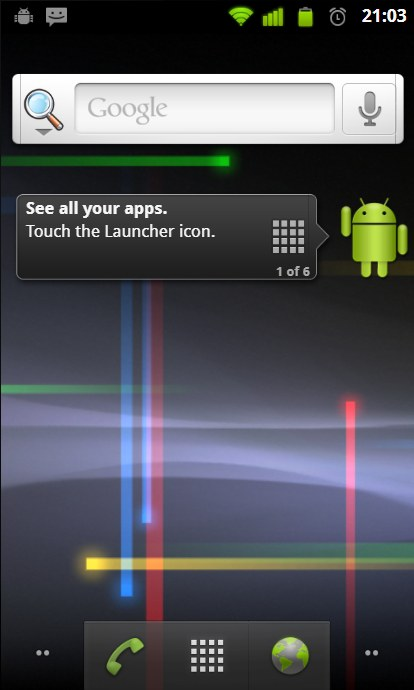
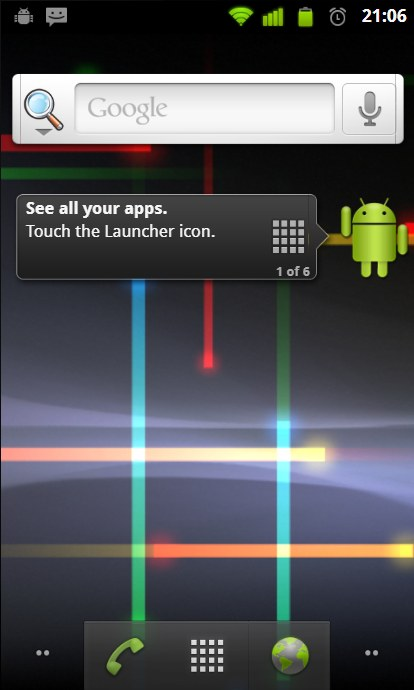
Recapture the 2.3.6 landing thumbnail with two Nexus tap bursts crossing the light waves

diff --git a/versions/catalog.js b/versions/catalog.js
@@ -9,7 +9,7 @@ window.ANDROID_VERSIONS = [
     description: 'Touch keys under the glass, the SlidingTab lock screen, option panels behind the Menu key, green status icons and the zombie Gingerbread easter egg.',
     url: 'versions/2.3.6/',
     status: 'available',
-    art: {shot: 'landing-home.jpg?v=3', phone: 'nexuss'}
+    art: {shot: 'landing-home.jpg?v=4', phone: 'nexuss'}
   },
   {
     id: '4.0.4',

diff --git a/index.html b/index.html
@@ -9,7 +9,7 @@
   <link rel="icon" type="image/svg+xml" href="favicon.svg">
   <link rel="stylesheet" href="styles.css?v=14">
   <script defer src="i18n.js?v=59"></script>
-  <script defer src="versions/catalog.js?v=10"></script>
+  <script defer src="versions/catalog.js?v=11"></script>
   <script defer src="app.js?v=10"></script>
 </head>
 <body>

diff --git a/docs/visual-audit-2.3.md b/docs/visual-audit-2.3.md
@@ -708,6 +708,6 @@ The Nexus wallpaper used the AOSP `packages/wallpapers/Basic` resources: the gre
 
 The crespo `default_wallpaper.jpg` (green grass) is only the static ImageWallpaper fallback. `config.xml` makes the live Nexus wallpaper the default.
 
-`versions/2.3.6/assets/lw-pyramid_background.png` and `lw-nexus_thumb.png` are now the crespo files (cache key `?v=2`). `live-wallpapers.js` follows the crespo `initPulse` / `addTap` scaling. The landing thumbnail (`landing-home.jpg?v=3`) was recaptured. 4.0.4 and 4.3 keep their own wallpapers.
+`versions/2.3.6/assets/lw-pyramid_background.png` and `lw-nexus_thumb.png` are now the crespo files (cache key `?v=2`). `live-wallpapers.js` follows the crespo `initPulse` / `addTap` scaling. The landing thumbnail (`landing-home.jpg?v=4`) was recaptured. The shot is staged with two taps on the empty home area, so two four-colour `addTap` bursts cross the light waves. 4.0.4 and 4.3 keep their own wallpapers.
 
 Checks: headless Chrome showed the new background with mixed pulse widths, a tap burst and the new LivePicker thumbnail. No JavaScript errors.
